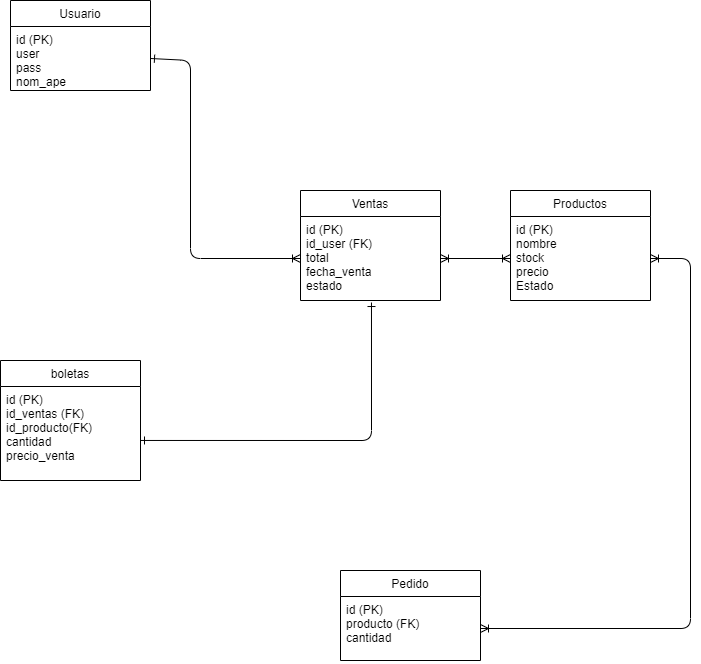
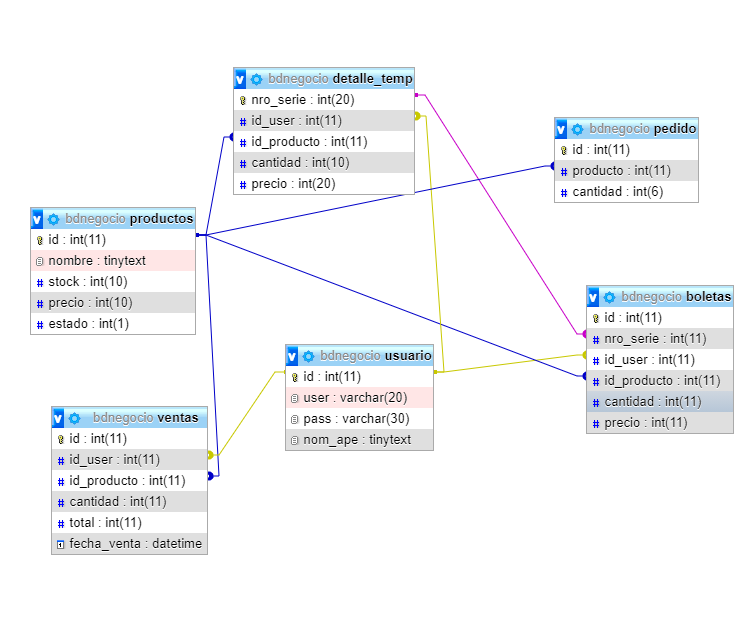
cambio modelo E-R

diff --git a/src/app/Admin.java b/src/app/Admin.java
@@ -37,9 +37,8 @@ public class Admin extends javax.swing.JFrame {
         jPanel1 = new javax.swing.JPanel();
         lblMinimizar = new javax.swing.JLabel();
         lblCerrar = new javax.swing.JLabel();
-        jPanel2 = new javax.swing.JPanel();
-        jPanel3 = new javax.swing.JPanel();
-        jPanel4 = new javax.swing.JPanel();
+        btnProductos = new javax.swing.JButton();
+        btnUsuarios = new javax.swing.JButton();
         lblFondo = new javax.swing.JLabel();
 
         setDefaultCloseOperation(javax.swing.WindowConstants.EXIT_ON_CLOSE);
@@ -68,44 +67,21 @@ public class Admin extends javax.swing.JFrame {
         });
         jPanel1.add(lblCerrar, new org.netbeans.lib.awtextra.AbsoluteConstraints(1000, 0, 50, 50));
 
-        javax.swing.GroupLayout jPanel2Layout = new javax.swing.GroupLayout(jPanel2);
-        jPanel2.setLayout(jPanel2Layout);
-        jPanel2Layout.setHorizontalGroup(
-            jPanel2Layout.createParallelGroup(javax.swing.GroupLayout.Alignment.LEADING)
-            .addGap(0, 550, Short.MAX_VALUE)
-        );
-        jPanel2Layout.setVerticalGroup(
-            jPanel2Layout.createParallelGroup(javax.swing.GroupLayout.Alignment.LEADING)
-            .addGap(0, 110, Short.MAX_VALUE)
-        );
+        btnProductos.setText("Productos ");
+        btnProductos.addMouseListener(new java.awt.event.MouseAdapter() {
+            public void mouseClicked(java.awt.event.MouseEvent evt) {
+                btnProductosMouseClicked(evt);
+            }
+        });
+        jPanel1.add(btnProductos, new org.netbeans.lib.awtextra.AbsoluteConstraints(310, 230, 150, 50));
 
-        jPanel1.add(jPanel2, new org.netbeans.lib.awtextra.AbsoluteConstraints(180, 40, 550, 110));
-
-        javax.swing.GroupLayout jPanel3Layout = new javax.swing.GroupLayout(jPanel3);
-        jPanel3.setLayout(jPanel3Layout);
-        jPanel3Layout.setHorizontalGroup(
-            jPanel3Layout.createParallelGroup(javax.swing.GroupLayout.Alignment.LEADING)
-            .addGap(0, 490, Short.MAX_VALUE)
-        );
-        jPanel3Layout.setVerticalGroup(
-            jPanel3Layout.createParallelGroup(javax.swing.GroupLayout.Alignment.LEADING)
-            .addGap(0, 140, Short.MAX_VALUE)
-        );
-
-        jPanel1.add(jPanel3, new org.netbeans.lib.awtextra.AbsoluteConstraints(190, 200, 490, 140));
-
-        javax.swing.GroupLayout jPanel4Layout = new javax.swing.GroupLayout(jPanel4);
-        jPanel4.setLayout(jPanel4Layout);
-        jPanel4Layout.setHorizontalGroup(
-            jPanel4Layout.createParallelGroup(javax.swing.GroupLayout.Alignment.LEADING)
-            .addGap(0, 640, Short.MAX_VALUE)
-        );
-        jPanel4Layout.setVerticalGroup(
-            jPanel4Layout.createParallelGroup(javax.swing.GroupLayout.Alignment.LEADING)
-            .addGap(0, 120, Short.MAX_VALUE)
-        );
-
-        jPanel1.add(jPanel4, new org.netbeans.lib.awtextra.AbsoluteConstraints(130, 390, 640, 120));
+        btnUsuarios.setText("Usuarios");
+        btnUsuarios.addMouseListener(new java.awt.event.MouseAdapter() {
+            public void mouseClicked(java.awt.event.MouseEvent evt) {
+                btnUsuariosMouseClicked(evt);
+            }
+        });
+        jPanel1.add(btnUsuarios, new org.netbeans.lib.awtextra.AbsoluteConstraints(600, 230, 150, 50));
 
         lblFondo.setIcon(new javax.swing.ImageIcon(getClass().getResource("/image/sea2.png"))); // NOI18N
         lblFondo.setText("jLabel1");
@@ -127,6 +103,18 @@ public class Admin extends javax.swing.JFrame {
             System.exit(0);//Cerrar el programa
         }
     }//GEN-LAST:event_lblCerrarMouseClicked
+
+    private void btnProductosMouseClicked(java.awt.event.MouseEvent evt) {//GEN-FIRST:event_btnProductosMouseClicked
+        OpProductos opproductos = new OpProductos();
+        opproductos.setVisible(true);
+        this.dispose();
+    }//GEN-LAST:event_btnProductosMouseClicked
+
+    private void btnUsuariosMouseClicked(java.awt.event.MouseEvent evt) {//GEN-FIRST:event_btnUsuariosMouseClicked
+        OpUsuario opusuario = new OpUsuario();
+        opusuario.setVisible(true);
+        this.dispose();
+    }//GEN-LAST:event_btnUsuariosMouseClicked
 
     /**
      * @param args the command line arguments
@@ -164,10 +152,9 @@ public class Admin extends javax.swing.JFrame {
     }
 
     // Variables declaration - do not modify//GEN-BEGIN:variables
+    private javax.swing.JButton btnProductos;
+    private javax.swing.JButton btnUsuarios;
     private javax.swing.JPanel jPanel1;
-    private javax.swing.JPanel jPanel2;
-    private javax.swing.JPanel jPanel3;
-    private javax.swing.JPanel jPanel4;
     private javax.swing.JLabel lblCerrar;
     private javax.swing.JLabel lblFondo;
     private javax.swing.JLabel lblMinimizar;

diff --git a/src/app/Main.java b/src/app/Main.java
@@ -15,6 +15,8 @@ public class Main {
      * @param args the command line arguments
      */
     public static void main(String[] args) {
+        Login login = new Login();
+        login.setVisible(true);
         
     }
     
